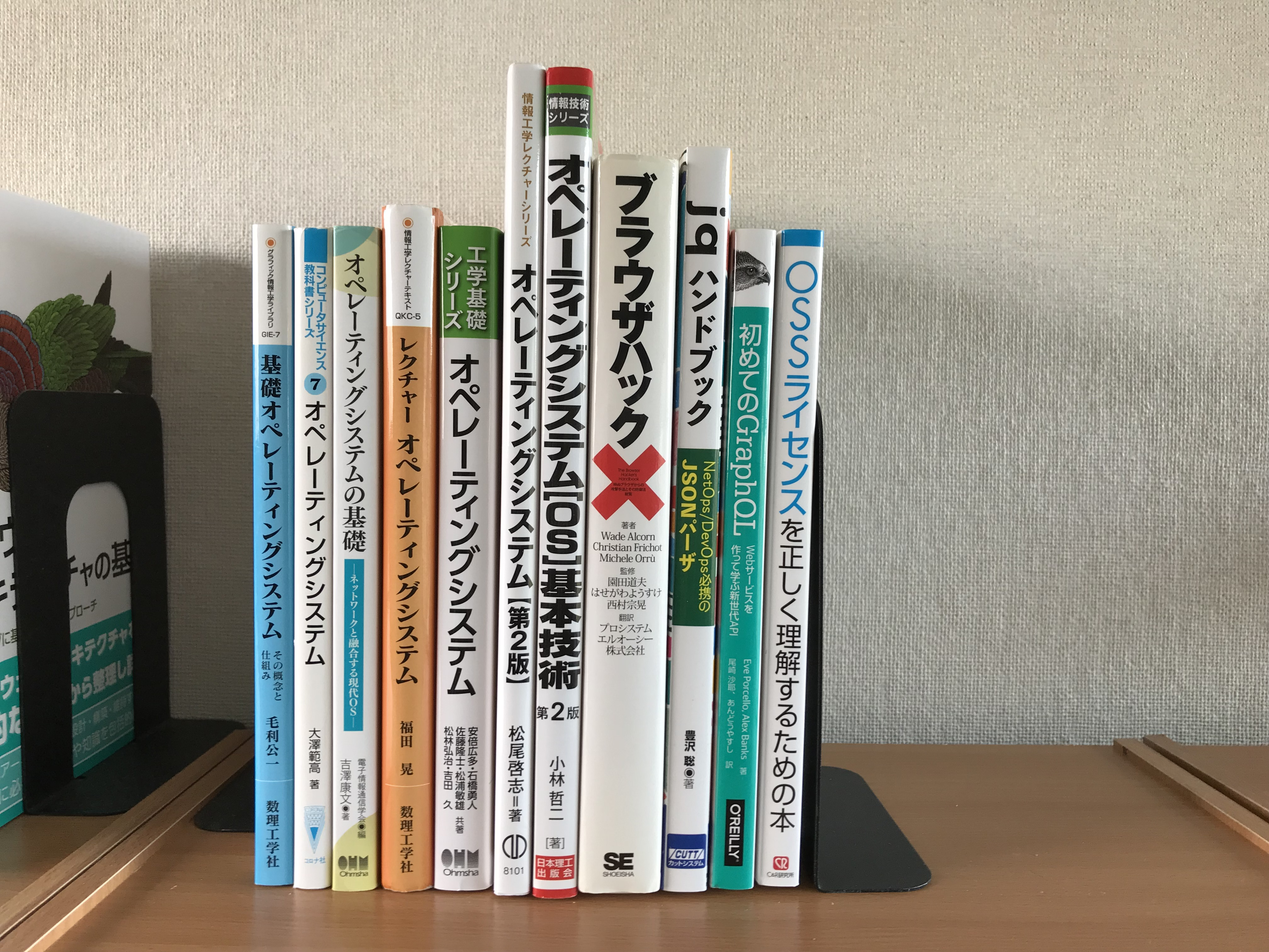
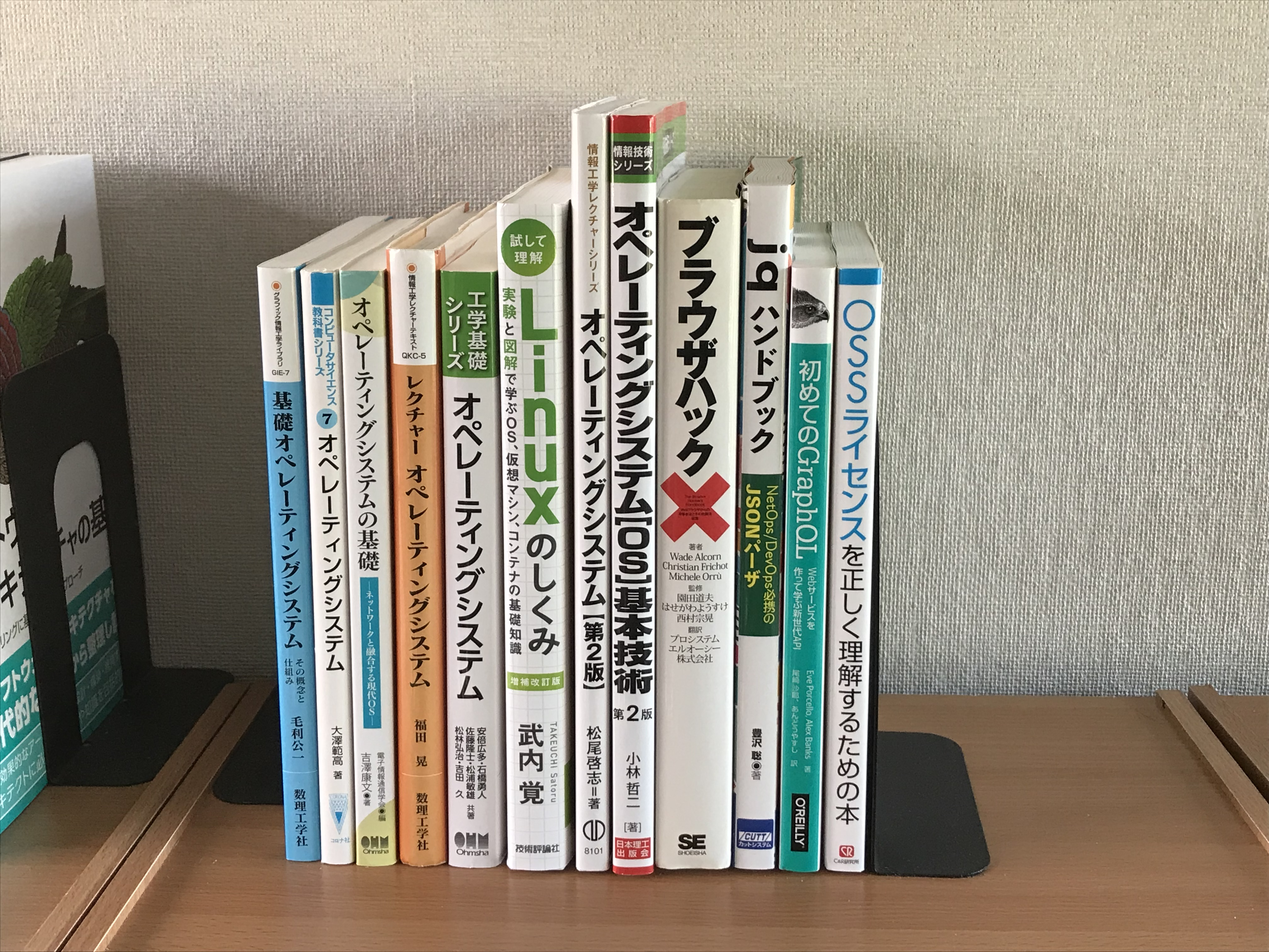
2023/04/13 時点の本棚

diff --git a/README.md b/README.md
@@ -3,8 +3,11 @@
 
 コンパイラ・IDE・OS・VMM・IME の開発のための和書
 
-2023/04/01 更新
+2023/04/13 更新
 
+* 2023/04/13 上段 更新：本棚 3
+* 2023/04/13 中段 2 更新：本棚 12
+* 2023/04/13 下段 1 更新：本棚 12
 * 2023/04/01 上段 移動：本棚 3 -> 本棚 12 の中段 1 の上段・下段
 * 2023/04/01 上段 移動：本棚 4 -> 本棚 12 の中段 1 の上段・下段
 * 2023/04/01 上段 更新：本棚 3, 11
@@ -14,15 +17,6 @@
 * 2023/04/01 中段 1 更新：本棚 1, 2
 * 2023/04/01 中段 2 更新：本棚 1, 12 の中段 2
 * 2023/04/01 下段 更新：本棚 12 の中段 1 の下段
-* 2023/02/27 上段 更新：本棚 1, 2, 3, 4, 9, 11
-* 2023/02/27 上段 削除：本棚 5
-* 2023/02/27 中段 更新：本棚 11
-* 2023/02/27 中段 追加：本棚 12
-* 2023/02/27 中段 1 更新：本棚 1, 2, 3, 4, 6, 10
-* 2023/02/27 中段 2 更新：本棚 1, 2, 3, 4, 5, 6
-* 2023/02/27 下段 更新：本棚 1, 2, 3, 4, 5, 11
-* 2023/02/27 下段 1 追加：本棚 12
-* 2023/02/27 下段 2 追加：本棚 12
 
 以下で公開しているブックマークの「書籍」フォルダを見ていただくと、全部ではないですが、出版社の書籍案内ページがブックマークされています。
 
